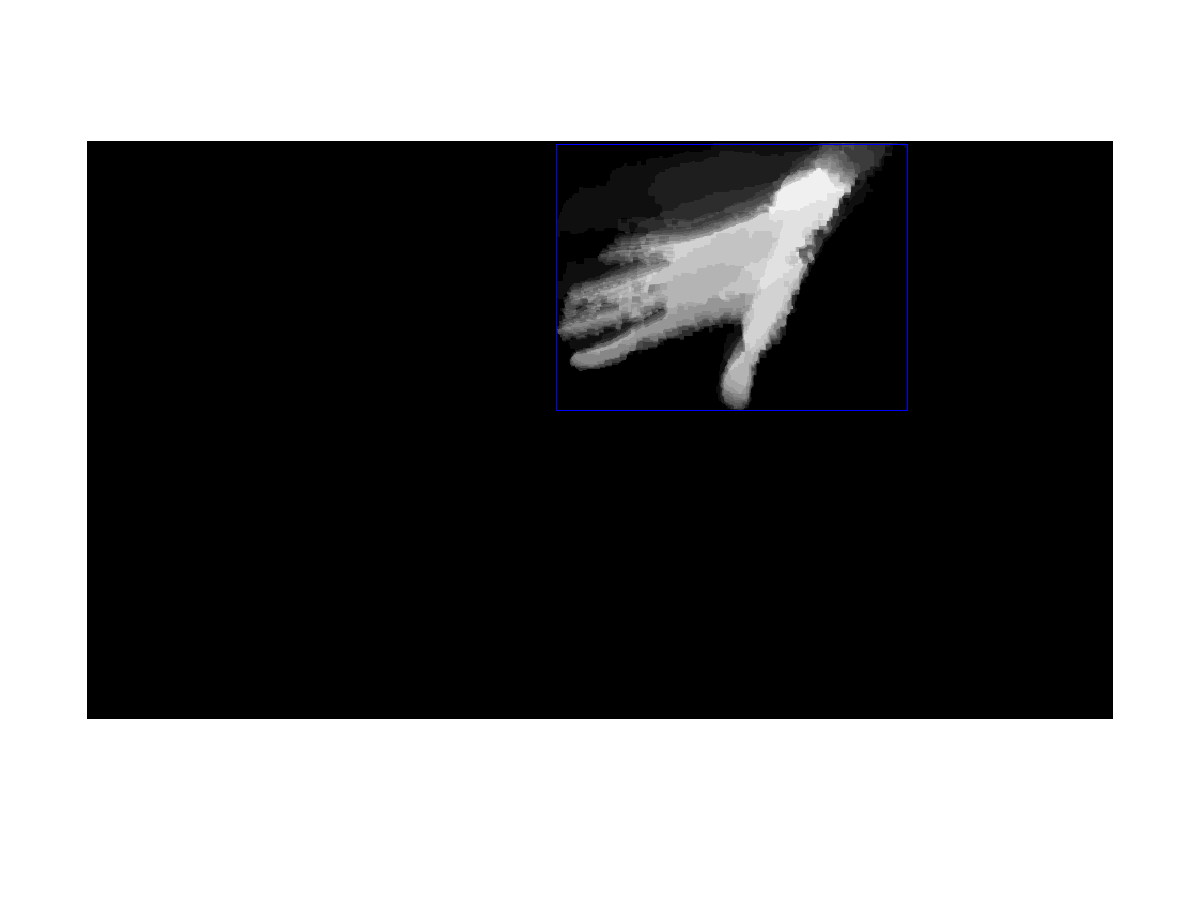
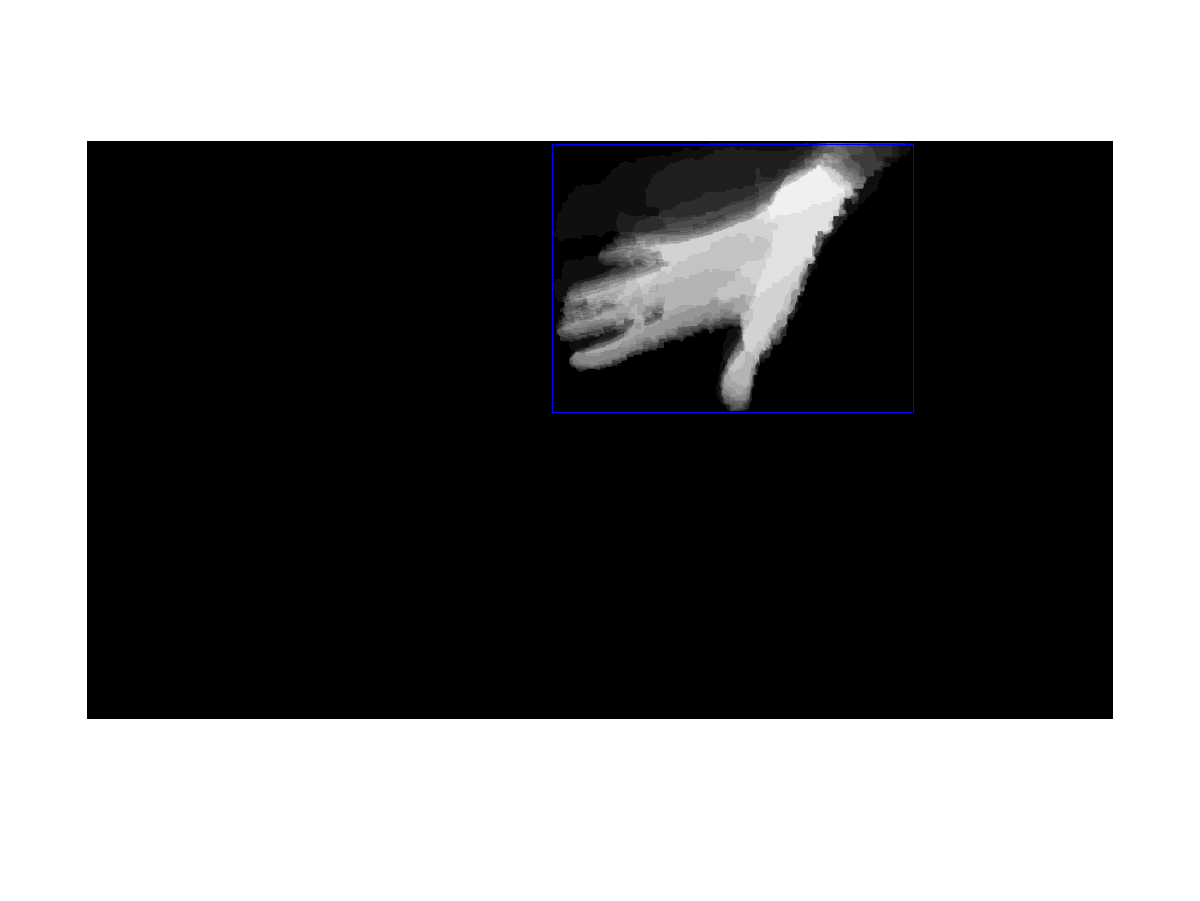
Error corrected in results path

Changed region(s): [[0.4625, 0.1554, 0.7708, 0.4351], [0.6167, 0.2175, 0.6475, 0.2486], [0.5858, 0.4351, 0.6167, 0.4661]]

diff --git a/boundingBoxTest.m b/boundingBoxTest.m
@@ -20,4 +20,4 @@ function [] = boundingBoxTest(seq, show, backNum, path)
     hold on
     plot([minX minX maxX maxX minX], [minY maxY maxY minY minY]);   
     hold off
-    saveas(show, sprintf('~/AV/Results/BBoxMHI%02dThresh0_15.png',show),'png');
+    saveas(show, sprintf('~/AV/AVcw1/Results/BBoxMHI%02dThresh0_15.png',show),'png');

diff --git a/binariseIm.m b/binariseIm.m
@@ -4,7 +4,7 @@
 function [binIm] = binariseIm(diff)
 
     diff = rgb2hsv(diff);
-    binIm = mycleanup(diff(:,:,3)>0.2,1,2);
+    binIm = mycleanup(diff(:,:,3)>0.15,1,2);
     labIm = mybwlabel(binIm);
     
     maxLab = max(max(labIm));
